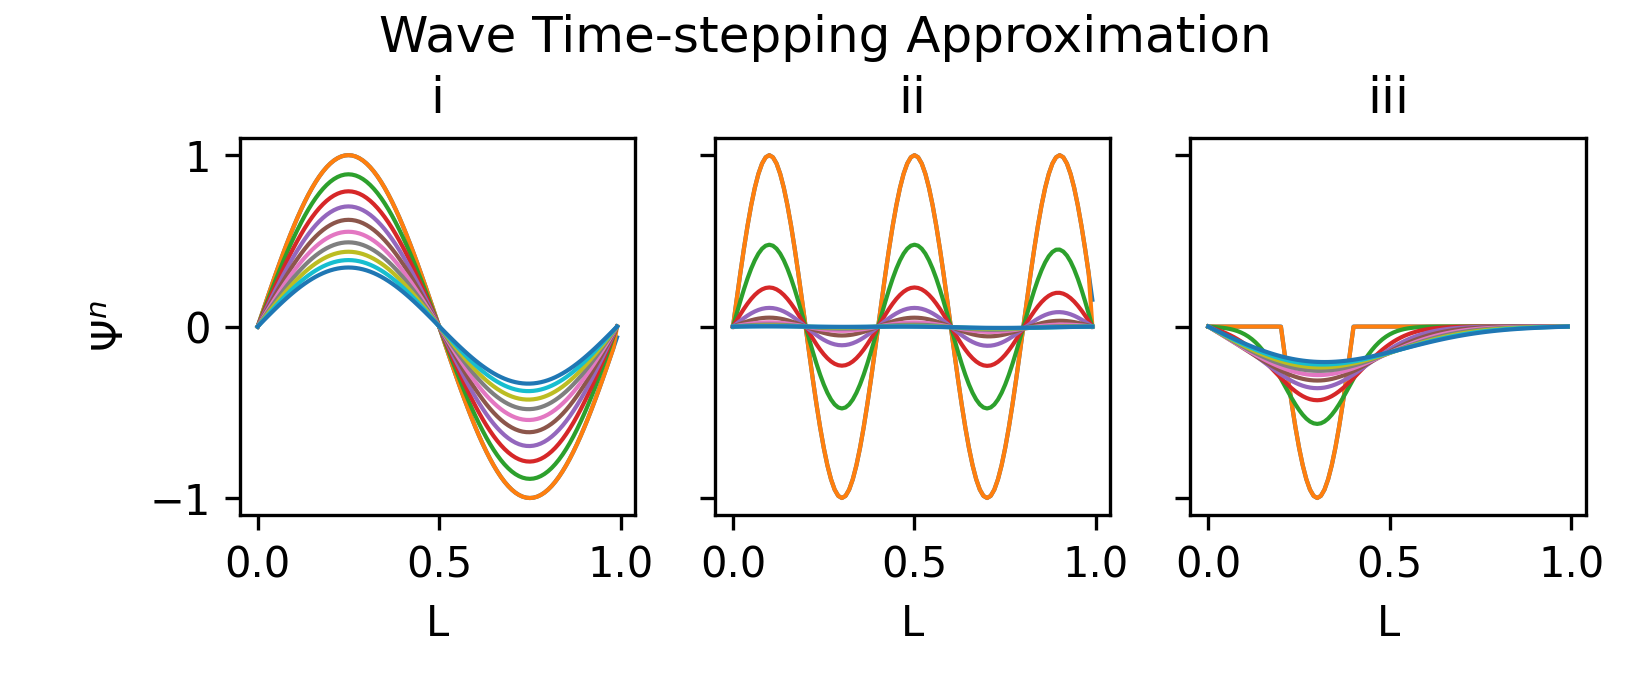
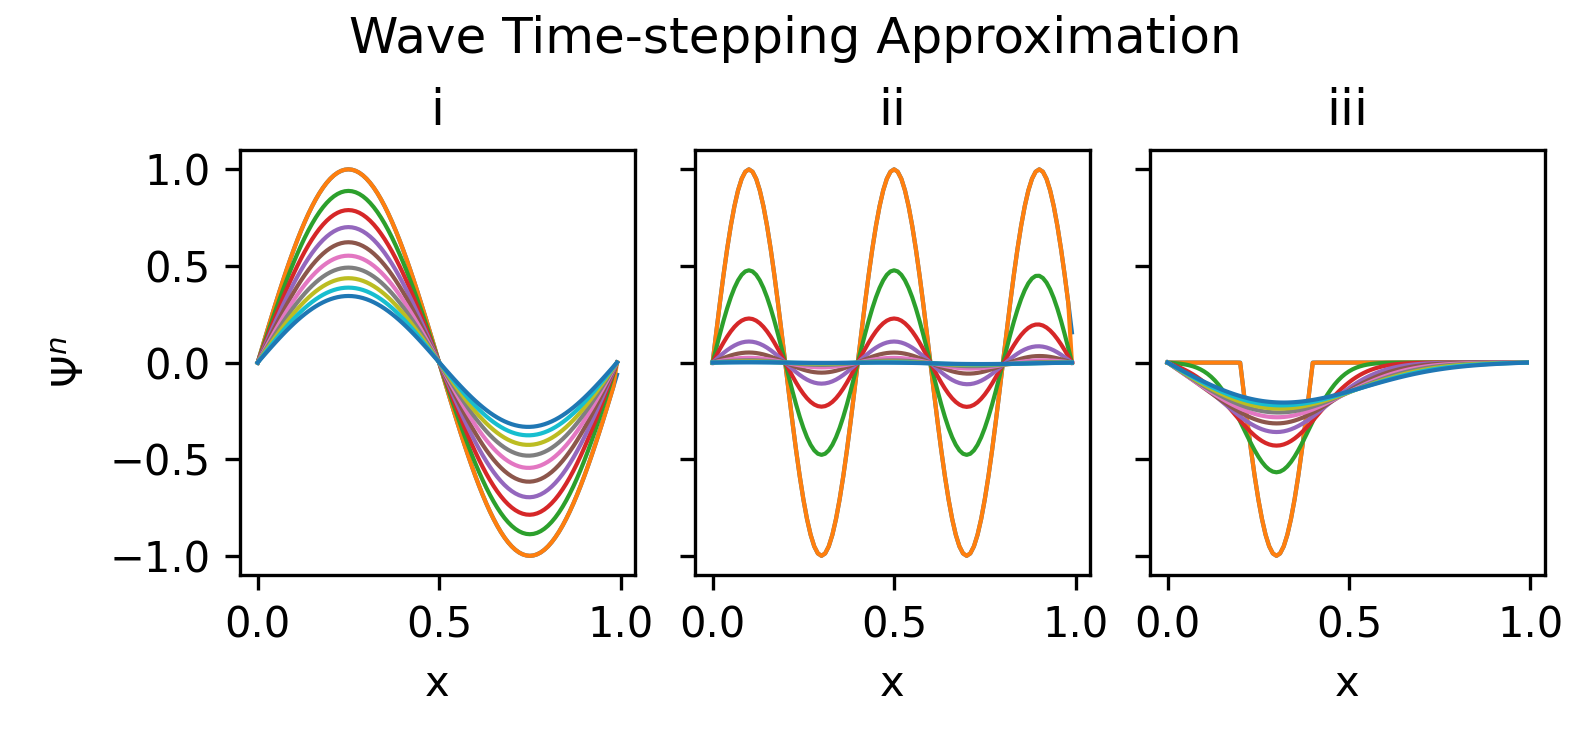
small fix visualization

diff --git a/src/visualizations.py b/src/visualizations.py
@@ -3,12 +3,12 @@ from matplotlib.animation import FuncAnimation
 import src.solutions as solutions
 
 def visualization_1b(overall_solutions, xs):
-    fig, axs = plt.subplots(1, 3, figsize=(5.5,2.3), sharey=True)
+    fig, axs = plt.subplots(1, 3, figsize=(5.3,2.5), sharey=True)
 
     for j in range(len(overall_solutions)):
         for k in range(len(overall_solutions[j])):
             axs[j].plot(xs, overall_solutions[j][k], linewidth=1)
-        axs[j].set_xlabel("L")
+        axs[j].set_xlabel("x")
         axs[j].set_title('i'*(j+1))
    
     axs[0].set_ylabel(r'$\Psi^n$')
@@ -38,7 +38,7 @@ def animate_1c(L, N, c, deltat):
         axs[j].plot(xs, all_soltjes[j][1]) 
         # axs[j].set_title(functions[j])
         axs[j].set_title('i'*(j+1))
-        axs[j].set_xlabel("L")
+        axs[j].set_xlabel("x")
    
     axs[0].set_ylabel(r'$\Psi$')
     
@@ -61,7 +61,7 @@ def animate_1c(L, N, c, deltat):
                 soltjes = solutions.wave_step_function(soltjes, c, xs, deltax, deltat)
             all_soltjes[i] = soltjes
             axs[i].plot(xs, soltjes[1]) 
-            axs[i].set_xlabel("L")
+            axs[i].set_xlabel("x")
    
         axs[0].set_ylabel(r'$\Psi$')
 
